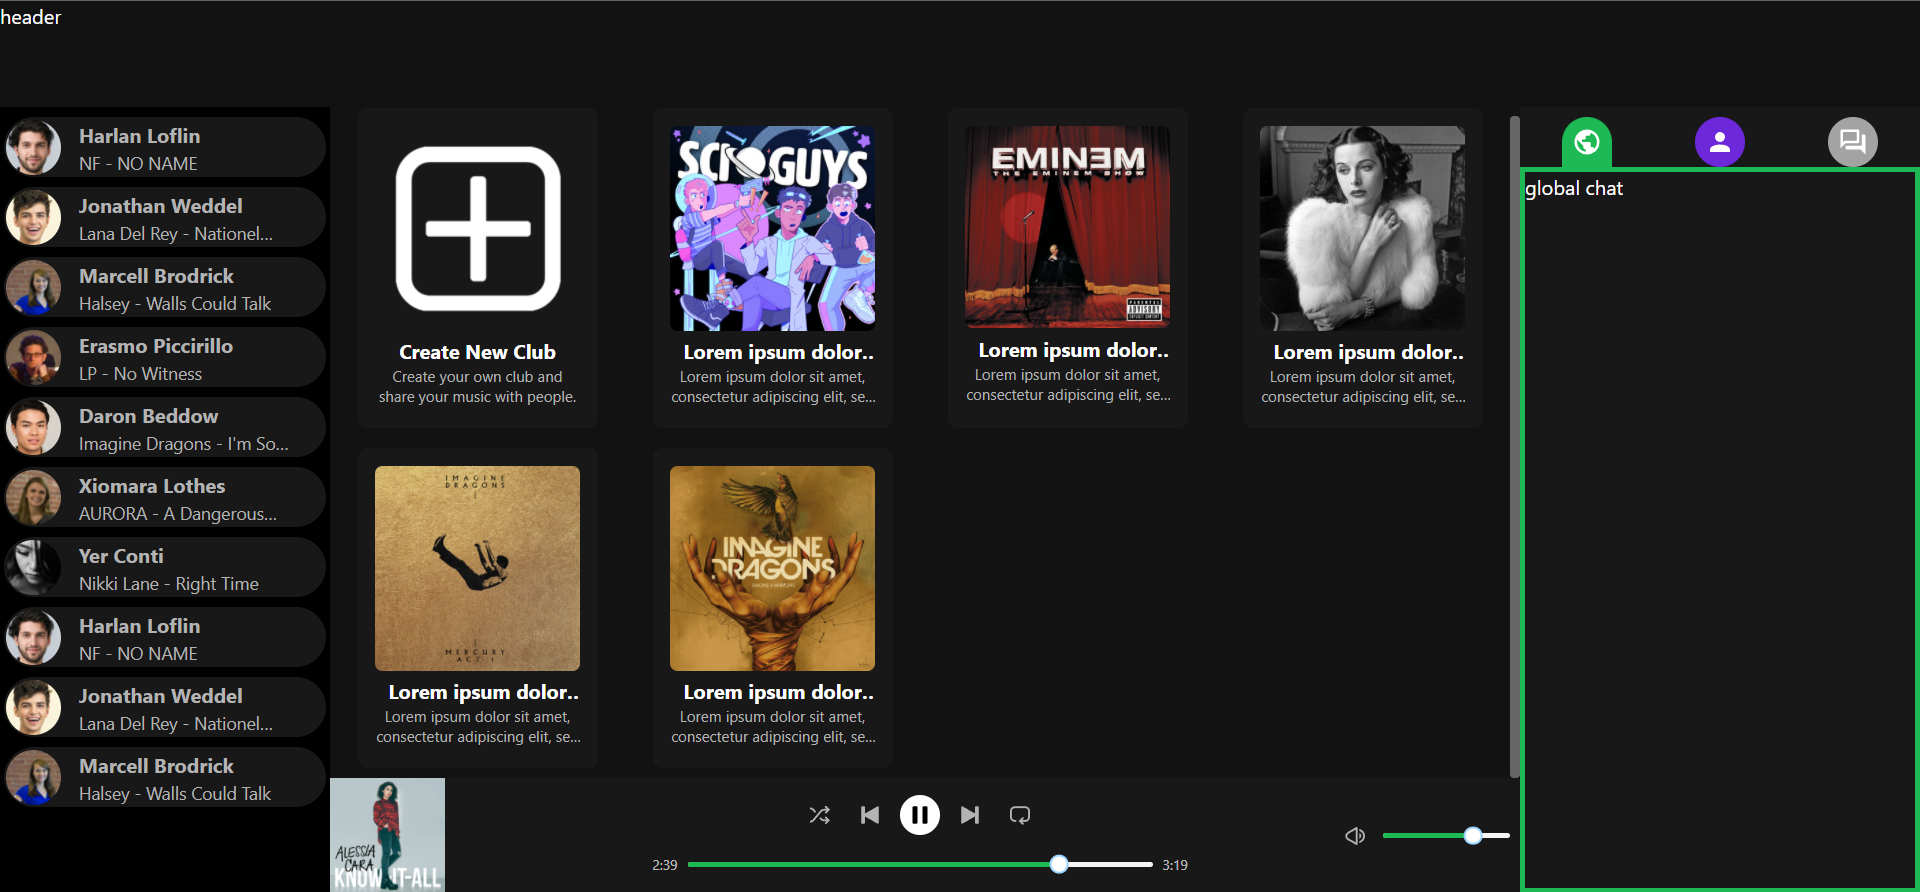
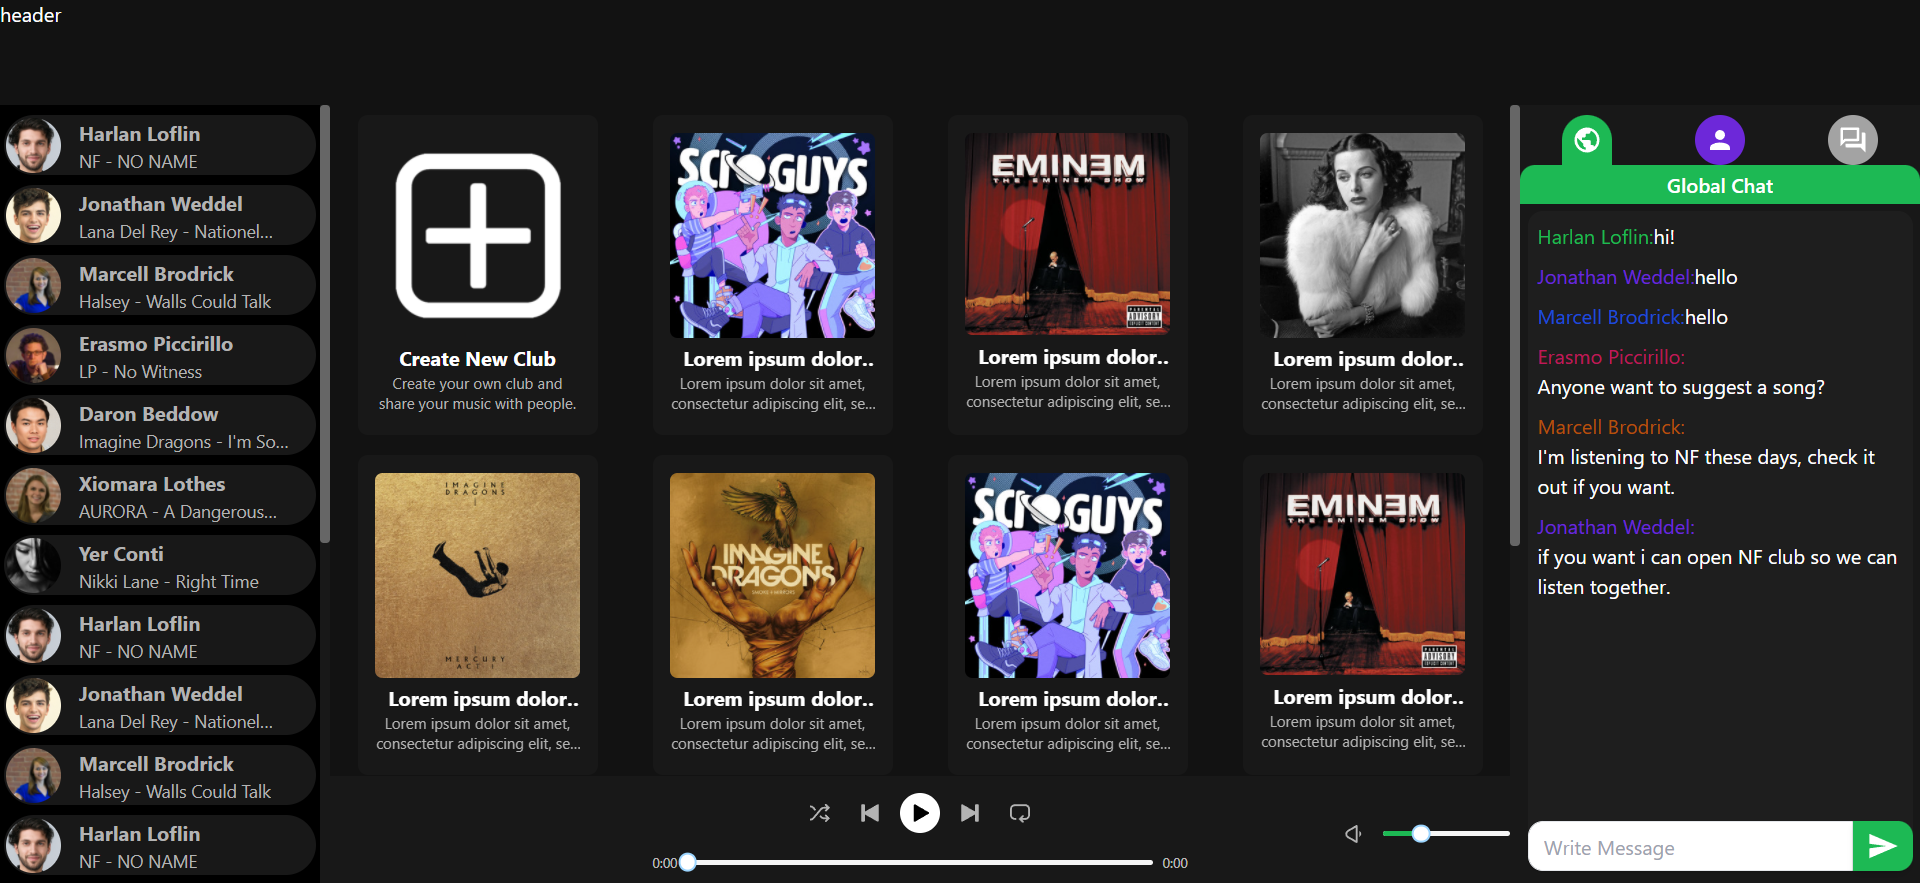
added chat skeleton and update image

diff --git a/frontend/src/components/app/ActiveUsers.vue b/frontend/src/components/app/ActiveUsers.vue
@@ -70,5 +70,75 @@
         <div class="line-clamp-1 text-sm text-[#b3b3b3]">Halsey - Walls Could Talk</div>
       </div>
     </div>
+    <div class="bg-SpotifyPlayer h-12 w-auto my-2 mx-[3px] rounded-full flex flex-row">
+      <img src="https://minimaltoolkit.com/images/randomdata/male/66.jpg" class="rounded-full m-0.5" >
+      <div class="ml-2 flex-col flex py-0.5 pl-1 pr-3">
+        <div class="font-bold text-[#b3b3b3]">Harlan Loflin</div>
+        <div class="line-clamp-1 text-sm text-[#b3b3b3]">NF - NO NAME</div>
+      </div>
+    </div>
+    <div class="bg-SpotifyPlayer h-12 w-auto my-2 mx-[3px] rounded-full flex flex-row">
+      <img src="https://minimaltoolkit.com/images/randomdata/male/41.jpg" class="rounded-full m-0.5" >
+      <div class="ml-2 flex-col flex py-0.5 pl-1 pr-3">
+        <div class="font-bold text-[#b3b3b3]">Jonathan Weddel</div>
+        <div class="line-clamp-1 text-sm text-[#b3b3b3]">Lana Del Rey - Nationel Anthem</div>
+      </div>
+    </div>
+    <div class="bg-SpotifyPlayer h-12 w-auto my-2 mx-[3px] rounded-full flex flex-row">
+      <img src="https://minimaltoolkit.com/images/randomdata/female/19.jpg" class="rounded-full m-0.5" >
+      <div class="ml-2 flex-col flex py-0.5 pl-1 pr-3">
+        <div class="font-bold text-[#b3b3b3]">Marcell Brodrick</div>
+        <div class="line-clamp-1 text-sm text-[#b3b3b3]">Halsey - Walls Could Talk</div>
+      </div>
+    </div>
+    <div class="bg-SpotifyPlayer h-12 w-auto my-2 mx-[3px] rounded-full flex flex-row">
+      <img src="https://minimaltoolkit.com/images/randomdata/male/19.jpg" class="rounded-full m-0.5" >
+      <div class="ml-2 flex-col flex py-0.5 pl-1 pr-3">
+        <div class="font-bold text-[#b3b3b3]">Erasmo Piccirillo</div>
+        <div class="line-clamp-1 text-sm text-[#b3b3b3]">LP - No Witness</div>
+      </div>
+    </div>
+    <div class="bg-SpotifyPlayer h-12 w-auto my-2 mx-[3px] rounded-full flex flex-row">
+      <img src="https://minimaltoolkit.com/images/randomdata/male/61.jpg" class="rounded-full m-0.5" >
+      <div class="ml-2 flex-col flex py-0.5 pl-1 pr-3">
+        <div class="font-bold text-[#b3b3b3]">Daron Beddow</div>
+        <div class="line-clamp-1 text-sm text-[#b3b3b3]">Imagine Dragons - I'm So Sorry</div>
+      </div>
+    </div>
+    <div class="bg-SpotifyPlayer h-12 w-auto my-2 mx-[3px] rounded-full flex flex-row">
+      <img src="https://minimaltoolkit.com/images/randomdata/female/28.jpg" class="rounded-full m-0.5" >
+      <div class="ml-2 flex-col flex py-0.5 pl-1 pr-3">
+        <div class="font-bold text-[#b3b3b3]">Xiomara Lothes</div>
+        <div class="line-clamp-1 text-sm text-[#b3b3b3]">AURORA - A Dangerous Thing</div>
+      </div>
+    </div>
+    <div class="bg-SpotifyPlayer h-12 w-auto my-2 mx-[3px] rounded-full flex flex-row">
+      <img src="https://minimaltoolkit.com/images/randomdata/female/51.jpg" class="rounded-full m-0.5" >
+      <div class="ml-2 flex-col flex py-0.5 pl-1 pr-3">
+        <div class="font-bold text-[#b3b3b3]">Yer Conti</div>
+        <div class="line-clamp-1 text-sm text-[#b3b3b3]">Nikki Lane - Right Time</div>
+      </div>
+    </div>
+    <div class="bg-SpotifyPlayer h-12 w-auto my-2 mx-[3px] rounded-full flex flex-row">
+      <img src="https://minimaltoolkit.com/images/randomdata/male/66.jpg" class="rounded-full m-0.5" >
+      <div class="ml-2 flex-col flex py-0.5 pl-1 pr-3">
+        <div class="font-bold text-[#b3b3b3]">Harlan Loflin</div>
+        <div class="line-clamp-1 text-sm text-[#b3b3b3]">NF - NO NAME</div>
+      </div>
+    </div>
+    <div class="bg-SpotifyPlayer h-12 w-auto my-2 mx-[3px] rounded-full flex flex-row">
+      <img src="https://minimaltoolkit.com/images/randomdata/male/41.jpg" class="rounded-full m-0.5" >
+      <div class="ml-2 flex-col flex py-0.5 pl-1 pr-3">
+        <div class="font-bold text-[#b3b3b3]">Jonathan Weddel</div>
+        <div class="line-clamp-1 text-sm text-[#b3b3b3]">Lana Del Rey - Nationel Anthem</div>
+      </div>
+    </div>
+    <div class="bg-SpotifyPlayer h-12 w-auto my-2 mx-[3px] rounded-full flex flex-row">
+      <img src="https://minimaltoolkit.com/images/randomdata/female/19.jpg" class="rounded-full m-0.5" >
+      <div class="ml-2 flex-col flex py-0.5 pl-1 pr-3">
+        <div class="font-bold text-[#b3b3b3]">Marcell Brodrick</div>
+        <div class="line-clamp-1 text-sm text-[#b3b3b3]">Halsey - Walls Could Talk</div>
+      </div>
+    </div>
   </div>
 </template>

diff --git a/frontend/src/components/app/Chat.vue b/frontend/src/components/app/Chat.vue
@@ -17,12 +17,80 @@
         </svg>
       </button>
     </div>
-    <div class="w-full border-4 border-SpotifyGreen" style="height: calc(100% - 48px)">
-      global chat
+    <div class="flex flex-col w-full" style="height: calc(100% - 48px)">
+      <div class=" w-full h-8 font-semibold pt-1 text-center rounded-t-xl bg-SpotifyGreen">Global Chat</div>
+      <div class="relative bg-[#1E1E1E] mt-1.5 mx-1.5 mb-4 rounded-xl" style="height: calc(100% - 32px)">
+        <div class="m-2 flex flex-row">
+          <div class="text-SpotifyGreen">
+            Harlan Loflin:
+          </div>
+          <div>
+             hi!
+          </div>
+        </div>
+        <div class="m-2 flex flex-row">
+          <div class="text-purple-700">
+            Jonathan Weddel:
+          </div>
+          <div>
+            hello
+          </div>
+        </div>
+        <div class="m-2 flex flex-row">
+          <div class="text-blue-700">
+            Marcell Brodrick:
+          </div>
+          <div>
+            hello
+          </div>
+        </div>
+        <div class="m-2">
+          <div class="text-pink-700">
+            Erasmo Piccirillo:
+          </div>
+          Anyone want to suggest a song?
+        </div>
+        <div class="m-2">
+          <div class="text-yellow-700">
+            Marcell Brodrick:
+          </div>
+          I'm listening to NF these days, check it out if you want.
+        </div>
+        <div class="m-2">
+          <div class="text-purple-700">
+            Jonathan Weddel:
+          </div>
+          if you want i can open NF club so we can listen together.
+        </div>
+        <div class="flex flex-row inset-x-0 bottom-0 absolute">
+          <input class="shadow appearance-none border rounded-l-xl w-full py-2 px-3 text-gray-700 leading-tight" type="text" placeholder="Write Message">
+          <button class="btn inline-block px-3 py-2 bg-SpotifyGreen text-white font-medium text-xs leading-tight uppercase rounded-r-xl shadow-md hover:opacity-75 hover:shadow-lg focus:shadow-lg focus:outline-none focus:ring-0 active:opacity-50 active:shadow-lg transition duration-150 ease-in-out flex items-center" type="button" id="button-addon2">
+            <svg viewBox="0 0 24 24" width="24" height="24" class=""><path fill="currentColor" d="M1.101 21.757 23.8 12.028 1.101 2.3l.011 7.912 13.623 1.816-13.623 1.817-.011 7.912z"></path></svg>
+          </button>
+        </div>
+      </div>
     </div>
   </div>
 </template>
 
-<style>
+<script>
+export default {
+  data() {
+    return{
+      currentChat: null
+    }
+  },
+  methods: {
+    SetGlobal() {
 
-</style>
+    },
+    SetFriends() {
+
+    },
+    SetClub() {
+
+    }
+  }
+}
+
+</script>

diff --git a/frontend/src/assets/tailwind.css b/frontend/src/assets/tailwind.css
@@ -22,7 +22,7 @@
 
     ::-webkit-scrollbar { width: 8px; height: 3px;}
     ::-webkit-scrollbar-track {  background-color: #646464;}
-    ::-webkit-scrollbar-track-piece { background-color: #121212;}
+    ::-webkit-scrollbar-track-piece { background-color: #181818;}
     ::-webkit-scrollbar-thumb { height: 50px; background-color: #666; border-radius: 3px;}
     ::-webkit-scrollbar-corner { background-color: #646464;}
     ::-webkit-resizer { background-color: #666;}

diff --git a/backend/server.go b/backend/server.go
@@ -127,11 +127,39 @@ func main() {
 		Name:        "Lorem ipsum dolor sit amet, consectetur adipiscing elit, sed do eiusmod",
 		Description: "Lorem ipsum dolor sit amet, consectetur adipiscing elit, sed do eiusmod",
 	}
+	club6 := Club{
+		Code:        "666666",
+		Image:       "https://i.scdn.co/image/993cdbae6bf9c21aa653ada2d153c8f05f1b842e",
+		Name:        "Lorem ipsum dolor sit amet, consectetur adipiscing elit, sed do eiusmod",
+		Description: "Lorem ipsum dolor sit amet, consectetur adipiscing elit, sed do eiusmod",
+	}
+	club7 := Club{
+		Code:        "777777",
+		Image:       "https://i.scdn.co/image/ab67616d00001e026ca5c90113b30c3c43ffb8f4",
+		Name:        "Lorem ipsum dolor sit amet, consectetur adipiscing elit, sed do eiusmod",
+		Description: "Lorem ipsum dolor sit amet, consectetur adipiscing elit, sed do eiusmod",
+	}
+	club8 := Club{
+		Code:        "888888",
+		Image:       "https://i.scdn.co/image/ab67706c0000bebb443715c10bcde6c10f733874",
+		Name:        "Lorem ipsum dolor sit amet, consectetur adipiscing elit, sed do eiusmod",
+		Description: "Lorem ipsum dolor sit amet, consectetur adipiscing elit, sed do eiusmod",
+	}
+	club9 := Club{
+		Code:        "999999",
+		Image:       "https://i.scdn.co/image/ab67616d00001e02d9b35d1c4d15c9de88b754a7",
+		Name:        "Lorem ipsum dolor sit amet, consectetur adipiscing elit, sed do eiusmod",
+		Description: "Lorem ipsum dolor sit amet, consectetur adipiscing elit, sed do eiusmod",
+	}
 	ClubWithCodes["111111"] = club1
 	ClubWithCodes["222222"] = club2
 	ClubWithCodes["333333"] = club3
 	ClubWithCodes["444444"] = club4
 	ClubWithCodes["555555"] = club5
+	ClubWithCodes["666666"] = club6
+	ClubWithCodes["777777"] = club7
+	ClubWithCodes["888888"] = club8
+	ClubWithCodes["999999"] = club9
 
 	r := gin.Default()
 	r.Use(cors.Default())
